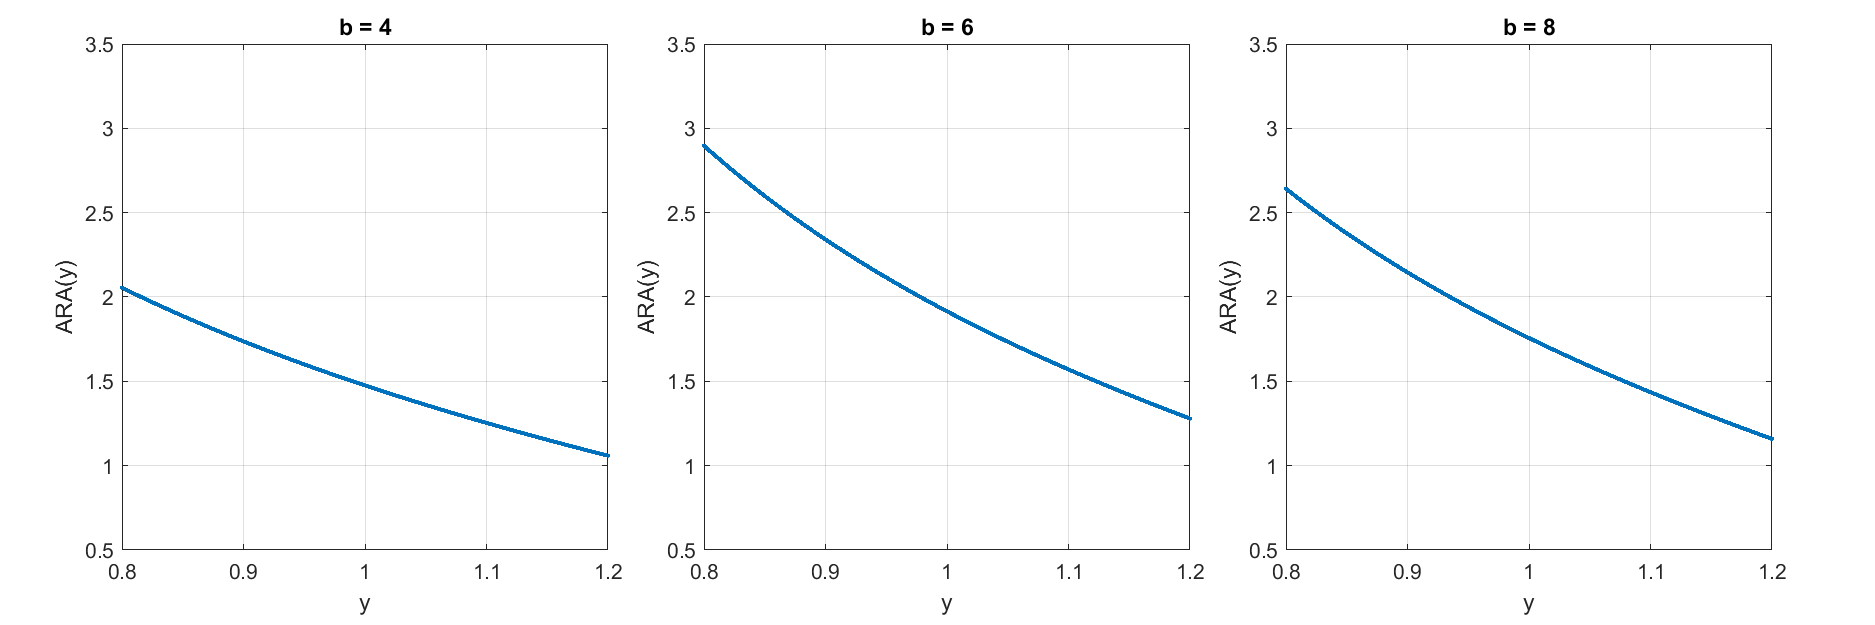
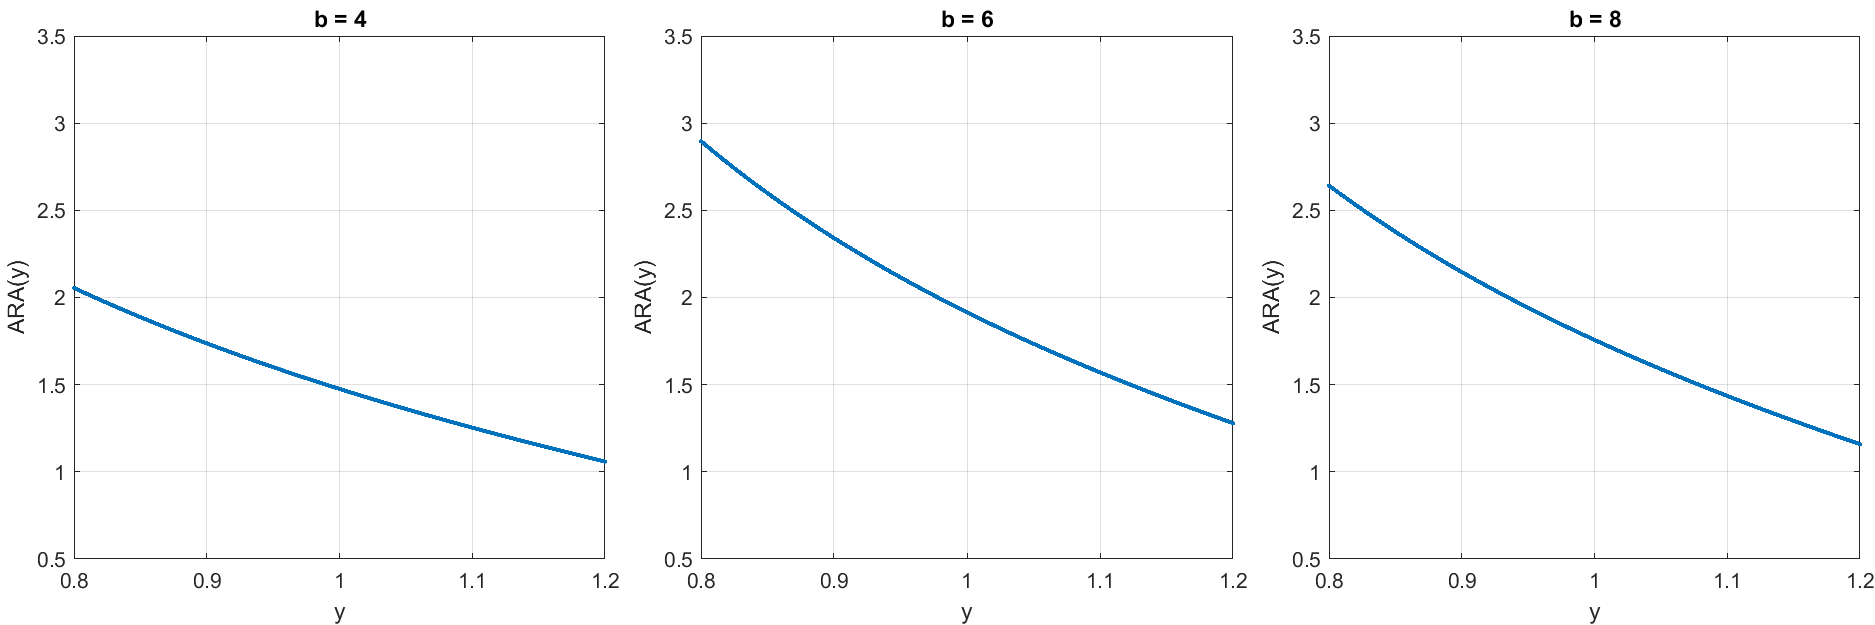
Add script for generating images for Beamer slides

diff --git a/04  風險偏好指標（Risk Preference）/Procedure__Risk_Preference.m b/04  風險偏好指標（Risk Preference）/Procedure__Risk_Preference.m
@@ -172,7 +172,7 @@ y_min = -0.1;
 y_max = 1.6;
 
 figure;
-layout = tiledlayout(1, 3, 'TileSpacing', 'Compact', 'Padding', 'Compact');
+layout = tiledlayout(1, 3, 'TileSpacing', 'Compact', 'Padding', 'None');
 
 for idx = 1:3
     nexttile;
@@ -202,7 +202,7 @@ set(gcf, 'Position', [100, 100, 1200, 400]);
 %%  g function and its derivatives
 
 figure;
-layout = tiledlayout(3, 4, 'TileSpacing', 'Compact', 'Padding', 'Compact');
+layout = tiledlayout(3, 4, 'TileSpacing', 'Compact', 'Padding', 'None');
 
 for idx = 1:3
     % Plot g(y)
@@ -278,7 +278,7 @@ y_min = 0.5;
 y_max = 3.5;
 
 figure;
-layout = tiledlayout(1, 3, 'TileSpacing', 'Compact', 'Padding', 'Compact');
+layout = tiledlayout(1, 3, 'TileSpacing', 'Compact', 'Padding', 'None');
 
 for idx = 1:3
     nexttile;
@@ -311,7 +311,7 @@ y_min = 0.5;
 y_max = 3.5;
 
 figure;
-layout = tiledlayout(1, 3, 'TileSpacing', 'Compact', 'Padding', 'Compact');
+layout = tiledlayout(1, 3, 'TileSpacing', 'Compact', 'Padding', 'None');
 
 for idx = 1:3
     nexttile;
@@ -344,7 +344,7 @@ y_min = 2;
 y_max = 5.5;
 
 figure;
-layout = tiledlayout(1, 3, 'TileSpacing', 'Compact', 'Padding', 'Compact');
+layout = tiledlayout(1, 3, 'TileSpacing', 'Compact', 'Padding', 'None');
 
 for idx = 1:3
     nexttile;
@@ -377,7 +377,7 @@ y_min = 2;
 y_max = 5.5;
 
 figure;
-layout = tiledlayout(1, 3, 'TileSpacing', 'Compact', 'Padding', 'Compact');
+layout = tiledlayout(1, 3, 'TileSpacing', 'Compact', 'Padding', 'None');
 
 for idx = 1:3
     nexttile;
@@ -410,7 +410,7 @@ y_min = 2.5;
 y_max = 7;
 
 figure;
-layout = tiledlayout(1, 3, 'TileSpacing', 'Compact', 'Padding', 'Compact');
+layout = tiledlayout(1, 3, 'TileSpacing', 'Compact', 'Padding', 'None');
 
 for idx = 1:3
     nexttile;
@@ -443,7 +443,7 @@ y_min = 2.5;
 y_max = 7;
 
 figure;
-layout = tiledlayout(1, 3, 'TileSpacing', 'Compact', 'Padding', 'Compact');
+layout = tiledlayout(1, 3, 'TileSpacing', 'Compact', 'Padding', 'None');
 
 for idx = 1:3
     nexttile;
@@ -467,4 +467,288 @@ set(gcf, 'Position', [100, 100, 1200, 400]);
 
 filename = 'Relative_Temperance.png';
 saveas(gcf, fullfile(Path_Output, filename));
+clear filename
+
+
+%% Plot - Beamer
+
+% Define Color (LaTeX Beamer Theme - Metropolis)
+mBackground = '#FAFAFA';
+
+
+%%  Beamer - g function and its derivatives
+
+figure;
+layout = tiledlayout(3, 4, 'TileSpacing', 'Compact', 'Padding', 'None');
+set(gcf, 'Color', mBackground);
+
+for idx = 1:3
+    % Plot g(y)
+    nexttile;
+
+    hold on;
+    plot(y, store_g(idx, :), '.');
+    title(['g(y), b = ', num2str((idx + 1) * 2)], 'FontName', 'Fira Sans', 'FontSize', 12);
+    xlabel('y');
+    ylabel('g(y)');
+    xlim([x_min, x_max]);
+    ylim([0, 1.5]);
+    grid on;
+    set(gca, 'box', 'on');
+    hold off;
+
+    % Plot g'(y)
+    nexttile;
+
+    hold on;
+    plot(y, store_g_prime(idx, :), '.');
+    title(['g''(y), b = ', num2str((idx + 1) * 2)], 'FontName', 'Fira Sans', 'FontSize', 12);
+    xlabel('y');
+    ylabel('g''(y)');
+    xlim([x_min, x_max]);
+    ylim([-1.5, 2]);
+    grid on;
+    set(gca, 'box', 'on');
+    hold off;
+
+    % Plot g''(y)
+    nexttile;
+
+    hold on;
+    plot(y, store_g_double_prime(idx, :), '.');
+    title(['g''''(y), b = ', num2str((idx + 1) * 2)], 'FontName', 'Fira Sans', 'FontSize', 12);
+    xlabel('y');
+    ylabel('g''''(y)');
+    xlim([x_min, x_max]);
+    ylim([-2, 7]);
+    grid on;
+    set(gca, 'box', 'on');
+    hold off;
+
+    % Plot g'''(y)
+    nexttile;
+
+    hold on;
+    plot(y, store_g_triple_prime(idx, :), '.');
+    title(['g''''''(y), b = ', num2str((idx + 1) * 2)], 'FontName', 'Fira Sans', 'FontSize', 12);
+    xlabel('y');
+    ylabel('g''''''(y)');
+    xlim([x_min, x_max]);
+    ylim([-7, -3]);
+    grid on;
+    set(gca, 'box', 'on');
+    hold off;
+
+end
+
+% sgtitle('g Function and Its Derivatives');
+
+set(gcf, 'Position', [100, 100, 1500, 850]);
+
+filename = 'Slide_g_Function_and_Its_Derivatives.png';
+exportgraphics(gcf, fullfile(Path_Output, filename), 'BackgroundColor', 'current');
+clear filename
+
+
+%% Beamer - Absolute Risk Aversion (ARA)
+
+y_min = 0.5;
+y_max = 3.5;
+
+figure;
+layout = tiledlayout(1, 3, 'TileSpacing', 'Compact', 'Padding', 'None');
+set(gcf, 'Color', mBackground);
+
+for idx = 1:3
+    nexttile;
+
+    hold on;
+    % fill([x_start x_end x_end x_start], [y_min y_min y_max y_max], fill_color, 'FaceAlpha', 0.5, 'EdgeColor', 'none');
+
+    plot(y, store_ARA(idx, :), '.');
+    title(['b = ', num2str((idx + 1) * 2)], 'FontName', 'Fira Sans', 'FontSize', 12);
+    xlabel('y');
+    ylabel('ARA(y)');
+    xlim([x_start, x_end]);
+    ylim([y_min, y_max]);
+    grid on;
+    set(gca, 'box', 'on');
+    hold off;
+end
+% sgtitle('Absolute Risk Aversion (ARA)');
+
+set(gcf, 'Position', [100, 100, 1200, 400]);
+
+filename = 'Slide_Absolute_Risk_Aversion.png';
+exportgraphics(gcf, fullfile(Path_Output, filename), 'BackgroundColor', 'current');
+clear filename
+
+
+%% Beamer - Relative Risk Aversion (RRA)
+
+y_min = 0.5;
+y_max = 3.5;
+
+figure;
+layout = tiledlayout(1, 3, 'TileSpacing', 'Compact', 'Padding', 'None');
+set(gcf, 'Color', mBackground);
+
+for idx = 1:3
+    nexttile;
+
+    hold on;
+    % fill([x_start x_end x_end x_start], [y_min y_min y_max y_max], fill_color, 'FaceAlpha', 0.5, 'EdgeColor', 'none');
+
+    plot(y, store_RRA(idx, :), '.');
+    title(['b = ', num2str((idx + 1) * 2)], 'FontName', 'Fira Sans', 'FontSize', 12);
+    xlabel('y');
+    ylabel('RRA(y)');
+    xlim([x_start, x_end]);
+    ylim([y_min, y_max]);
+    grid on;
+    set(gca, 'box', 'on');
+    hold off;
+end
+% sgtitle('Relative Risk Aversion (RRA)');
+
+set(gcf, 'Position', [100, 100, 1200, 400]);
+
+filename = 'Slide_Relative_Risk_Aversion.png';
+exportgraphics(gcf, fullfile(Path_Output, filename), 'BackgroundColor', 'current');
+clear filename
+
+
+%% Beamer - Absolute Prudence (AP)
+
+y_min = 2;
+y_max = 5.5;
+
+figure;
+layout = tiledlayout(1, 3, 'TileSpacing', 'Compact', 'Padding', 'None');
+set(gcf, 'Color', mBackground);
+
+for idx = 1:3
+    nexttile;
+
+    hold on;
+    % fill([x_start x_end x_end x_start], [y_min y_min y_max y_max], fill_color, 'FaceAlpha', 0.5, 'EdgeColor', 'none');
+
+    plot(y, store_AP(idx, :), '.');
+    title(['b = ', num2str((idx + 1) * 2)], 'FontName', 'Fira Sans', 'FontSize', 12);
+    xlabel('y');
+    ylabel('AP(y)');
+    xlim([x_start, x_end]);
+    ylim([y_min, y_max]);
+    grid on;
+    set(gca, 'box', 'on');
+    hold off;
+end
+% sgtitle('Absolute Prudence (AP)');
+
+set(gcf, 'Position', [100, 100, 1200, 400]);
+
+filename = 'Slide_Absolute_Prudence.png';
+exportgraphics(gcf, fullfile(Path_Output, filename), 'BackgroundColor', 'current');
+clear filename
+
+
+%% Beamer - Relative Prudence (RP)
+
+y_min = 2;
+y_max = 5.5;
+
+figure;
+layout = tiledlayout(1, 3, 'TileSpacing', 'Compact', 'Padding', 'None');
+set(gcf, 'Color', mBackground);
+
+for idx = 1:3
+    nexttile;
+
+    hold on;
+    % fill([x_start x_end x_end x_start], [y_min y_min y_max y_max], fill_color, 'FaceAlpha', 0.5, 'EdgeColor', 'none');
+
+    plot(y, store_RP(idx, :), '.');
+    title(['b = ', num2str((idx + 1) * 2)], 'FontName', 'Fira Sans', 'FontSize', 12);
+    xlabel('y');
+    ylabel('RP(y)');
+    xlim([x_start, x_end]);
+    ylim([y_min, y_max]);
+    grid on;
+    set(gca, 'box', 'on');
+    hold off;
+end
+% sgtitle('Relative Prudence (RP)');
+
+set(gcf, 'Position', [100, 100, 1200, 400]);
+
+filename = 'Slide_Relative_Prudence.png';
+exportgraphics(gcf, fullfile(Path_Output, filename), 'BackgroundColor', 'current');
+clear filename
+
+
+%% Beamer - Absolute Temperance (AT)
+
+y_min = 2.5;
+y_max = 7;
+
+figure;
+layout = tiledlayout(1, 3, 'TileSpacing', 'Compact', 'Padding', 'None');
+set(gcf, 'Color', mBackground);
+
+for idx = 1:3
+    nexttile;
+
+    hold on;
+    % fill([x_start x_end x_end x_start], [y_min y_min y_max y_max], fill_color, 'FaceAlpha', 0.5, 'EdgeColor', 'none');
+
+    plot(y, store_AT(idx, :), '.');
+    title(['b = ', num2str((idx + 1) * 2)], 'FontName', 'Fira Sans', 'FontSize', 12);
+    xlabel('y');
+    ylabel('AT(y)');
+    xlim([x_start, x_end]);
+    ylim([y_min, y_max]);
+    grid on;
+    set(gca, 'box', 'on');
+    hold off;
+end
+% sgtitle('Absolute Temperance (AT)');
+
+set(gcf, 'Position', [100, 100, 1200, 400]);
+
+filename = 'Slide_Absolute_Temperance.png';
+exportgraphics(gcf, fullfile(Path_Output, filename), 'BackgroundColor', 'current');
+clear filename
+
+
+%% Beamer - Relative Temperance (RT)
+
+y_min = 2.5;
+y_max = 7;
+
+figure;
+layout = tiledlayout(1, 3, 'TileSpacing', 'Compact', 'Padding', 'None');
+set(gcf, 'Color', mBackground);
+
+for idx = 1:3
+    nexttile;
+
+    hold on;
+    % fill([x_start x_end x_end x_start], [y_min y_min y_max y_max], fill_color, 'FaceAlpha', 0.5, 'EdgeColor', 'none');
+
+    plot(y, store_RT(idx, :), '.');
+    title(['b = ', num2str((idx + 1) * 2)], 'FontName', 'Fira Sans', 'FontSize', 12);
+    xlabel('y');
+    ylabel('RT(y)');
+    xlim([x_start, x_end]);
+    ylim([y_min, y_max]);
+    grid on;
+    set(gca, 'box', 'on');
+    hold off;
+end
+% sgtitle('Relative Temperance (RT)');
+
+set(gcf, 'Position', [100, 100, 1200, 400]);
+
+filename = 'Slide_Relative_Temperance.png';
+exportgraphics(gcf, fullfile(Path_Output, filename), 'BackgroundColor', 'current');
 clear filename
